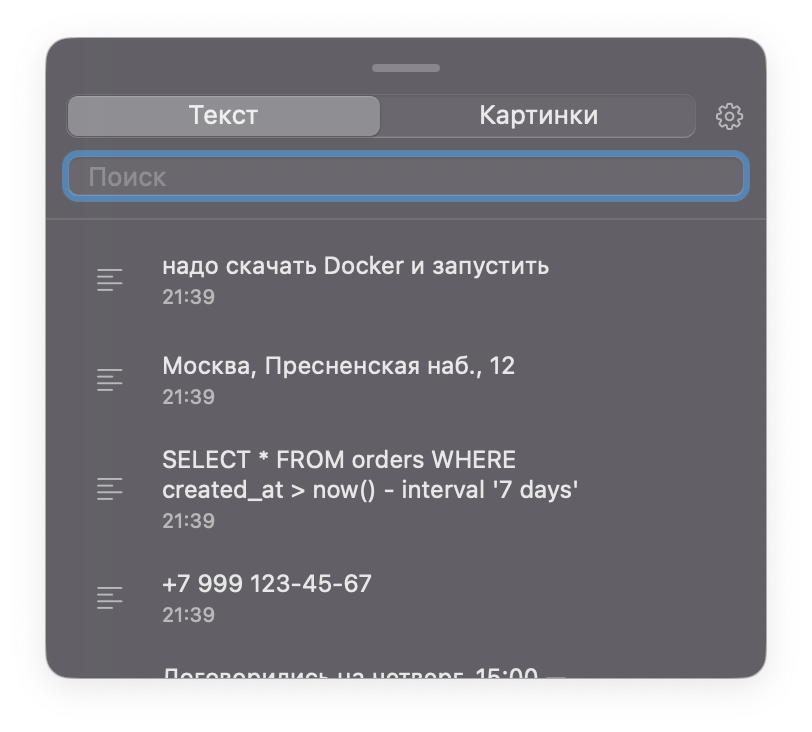
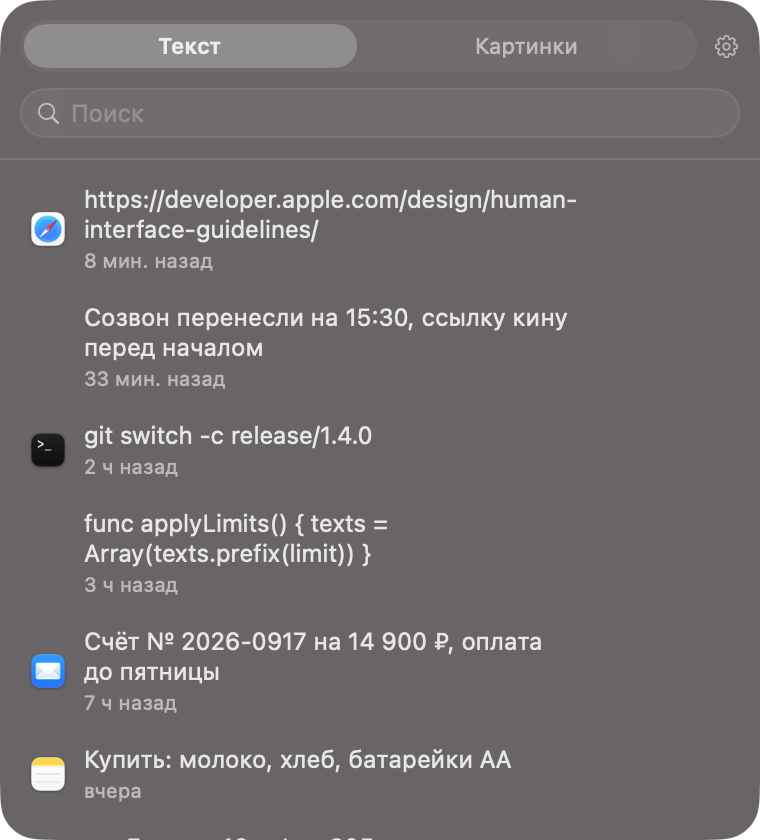
Karman 1.4.0: обновление, README и скриншоты

diff --git a/README.md b/README.md
@@ -7,7 +7,7 @@
 **Буфер обмена, полка скриншотов и исправление раскладки для Mac.**
 Живёт в строке меню, в Dock не появляется.
 
-[**Скачать Karman 1.3.2**](../../releases/latest) · macOS 13+ · Apple Silicon и Intel · бесплатно
+[**Скачать Karman 1.4.0**](../../releases/latest) · macOS 13+ · Apple Silicon и Intel · бесплатно
 
 <img src="screenshots/panel.png" width="720" alt="Панель истории">
 
